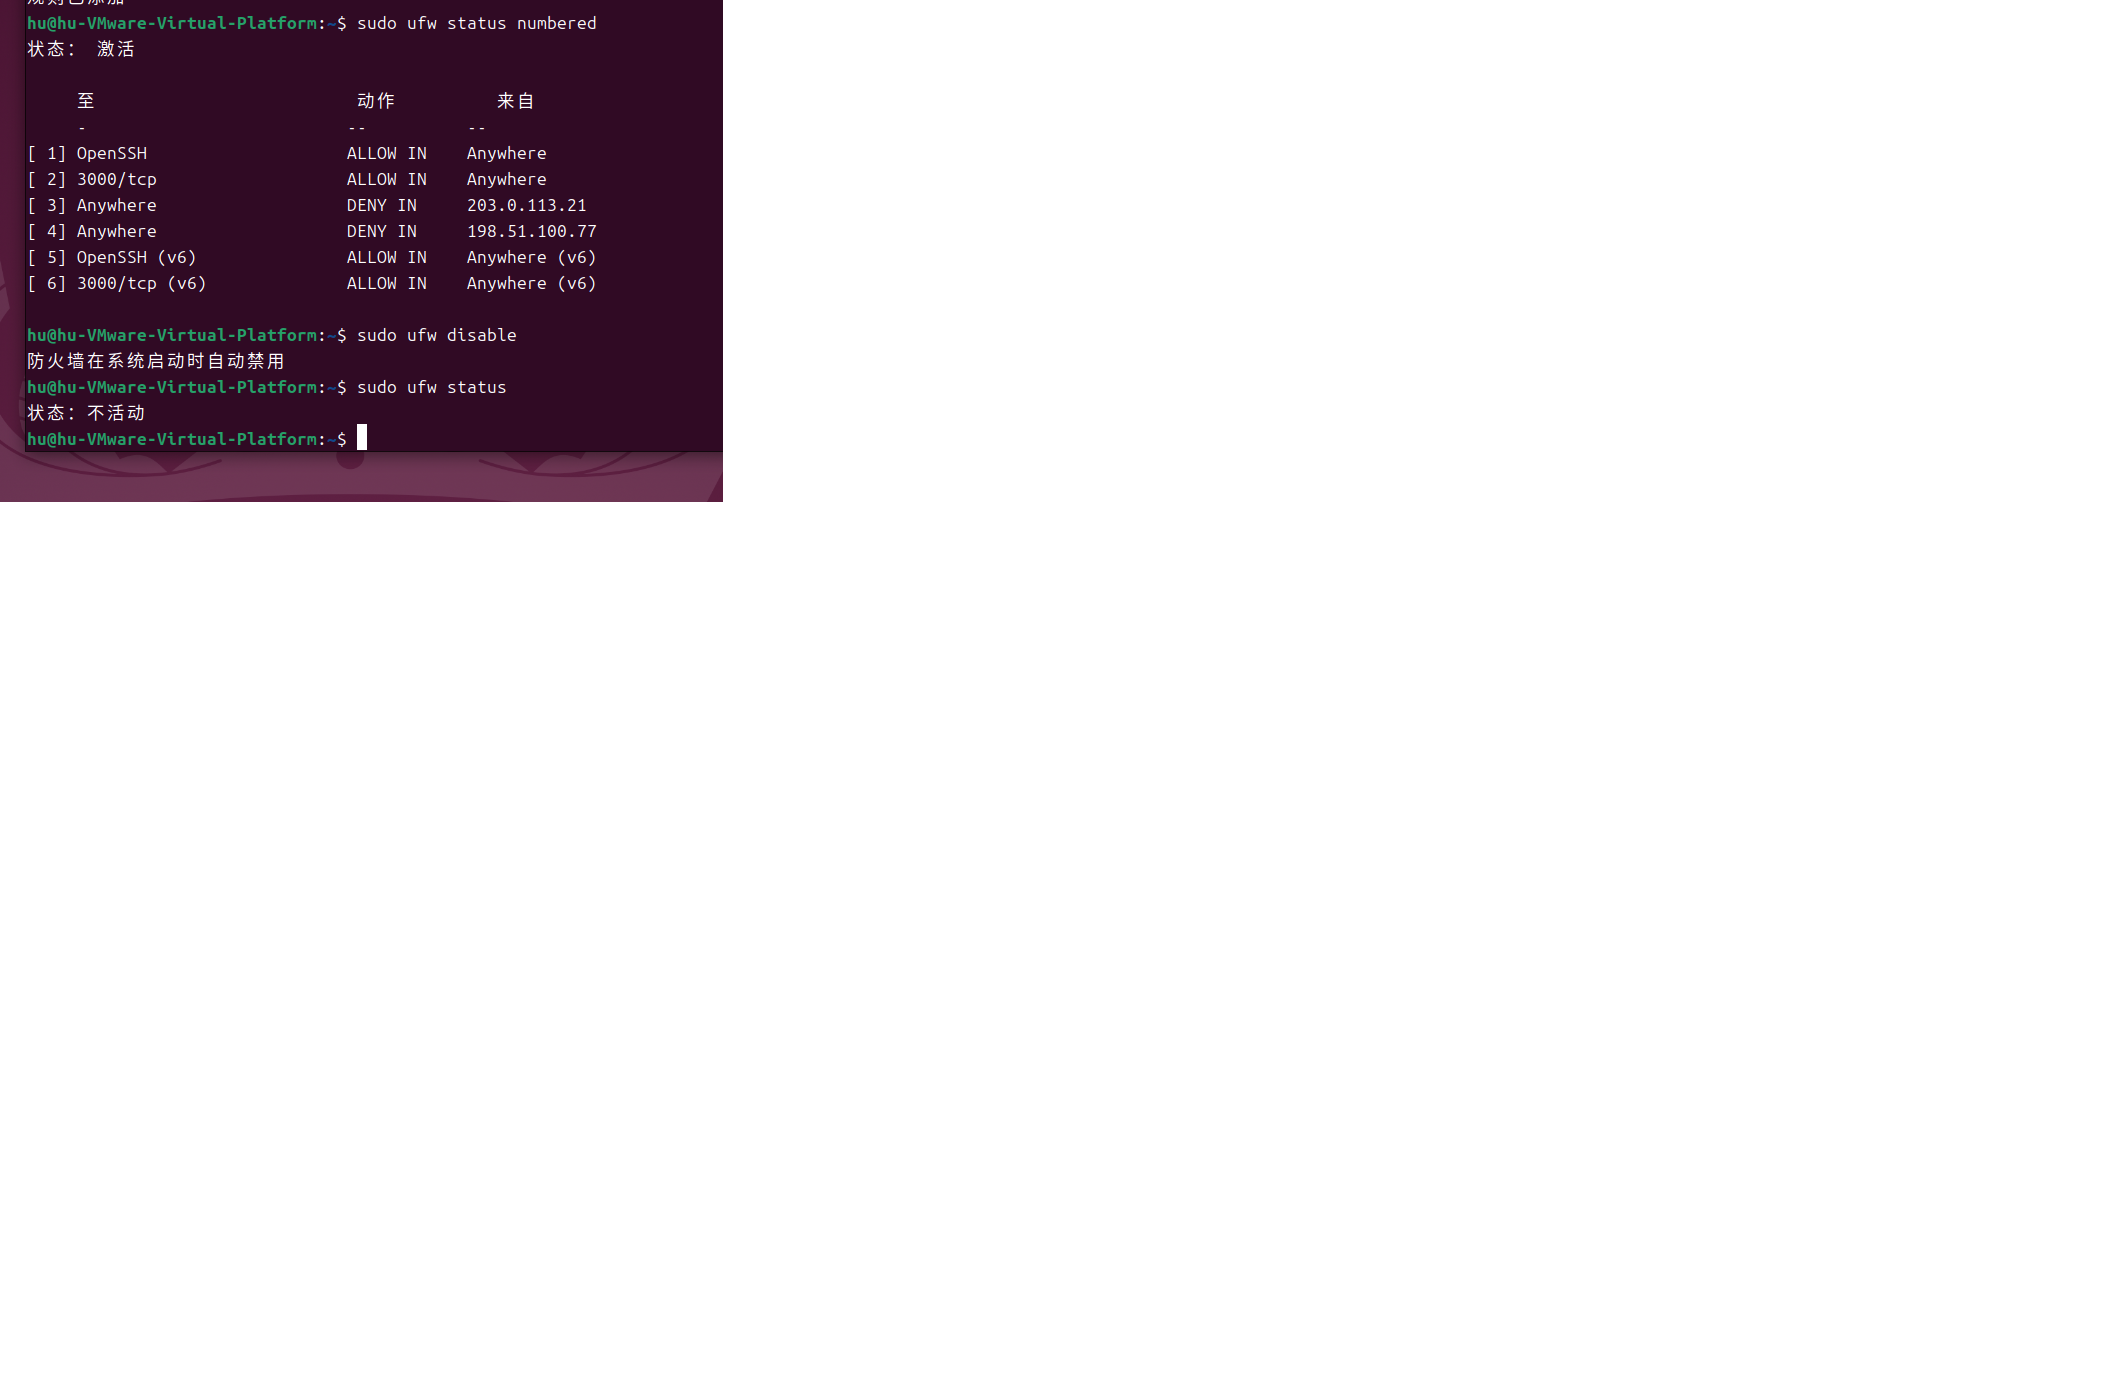
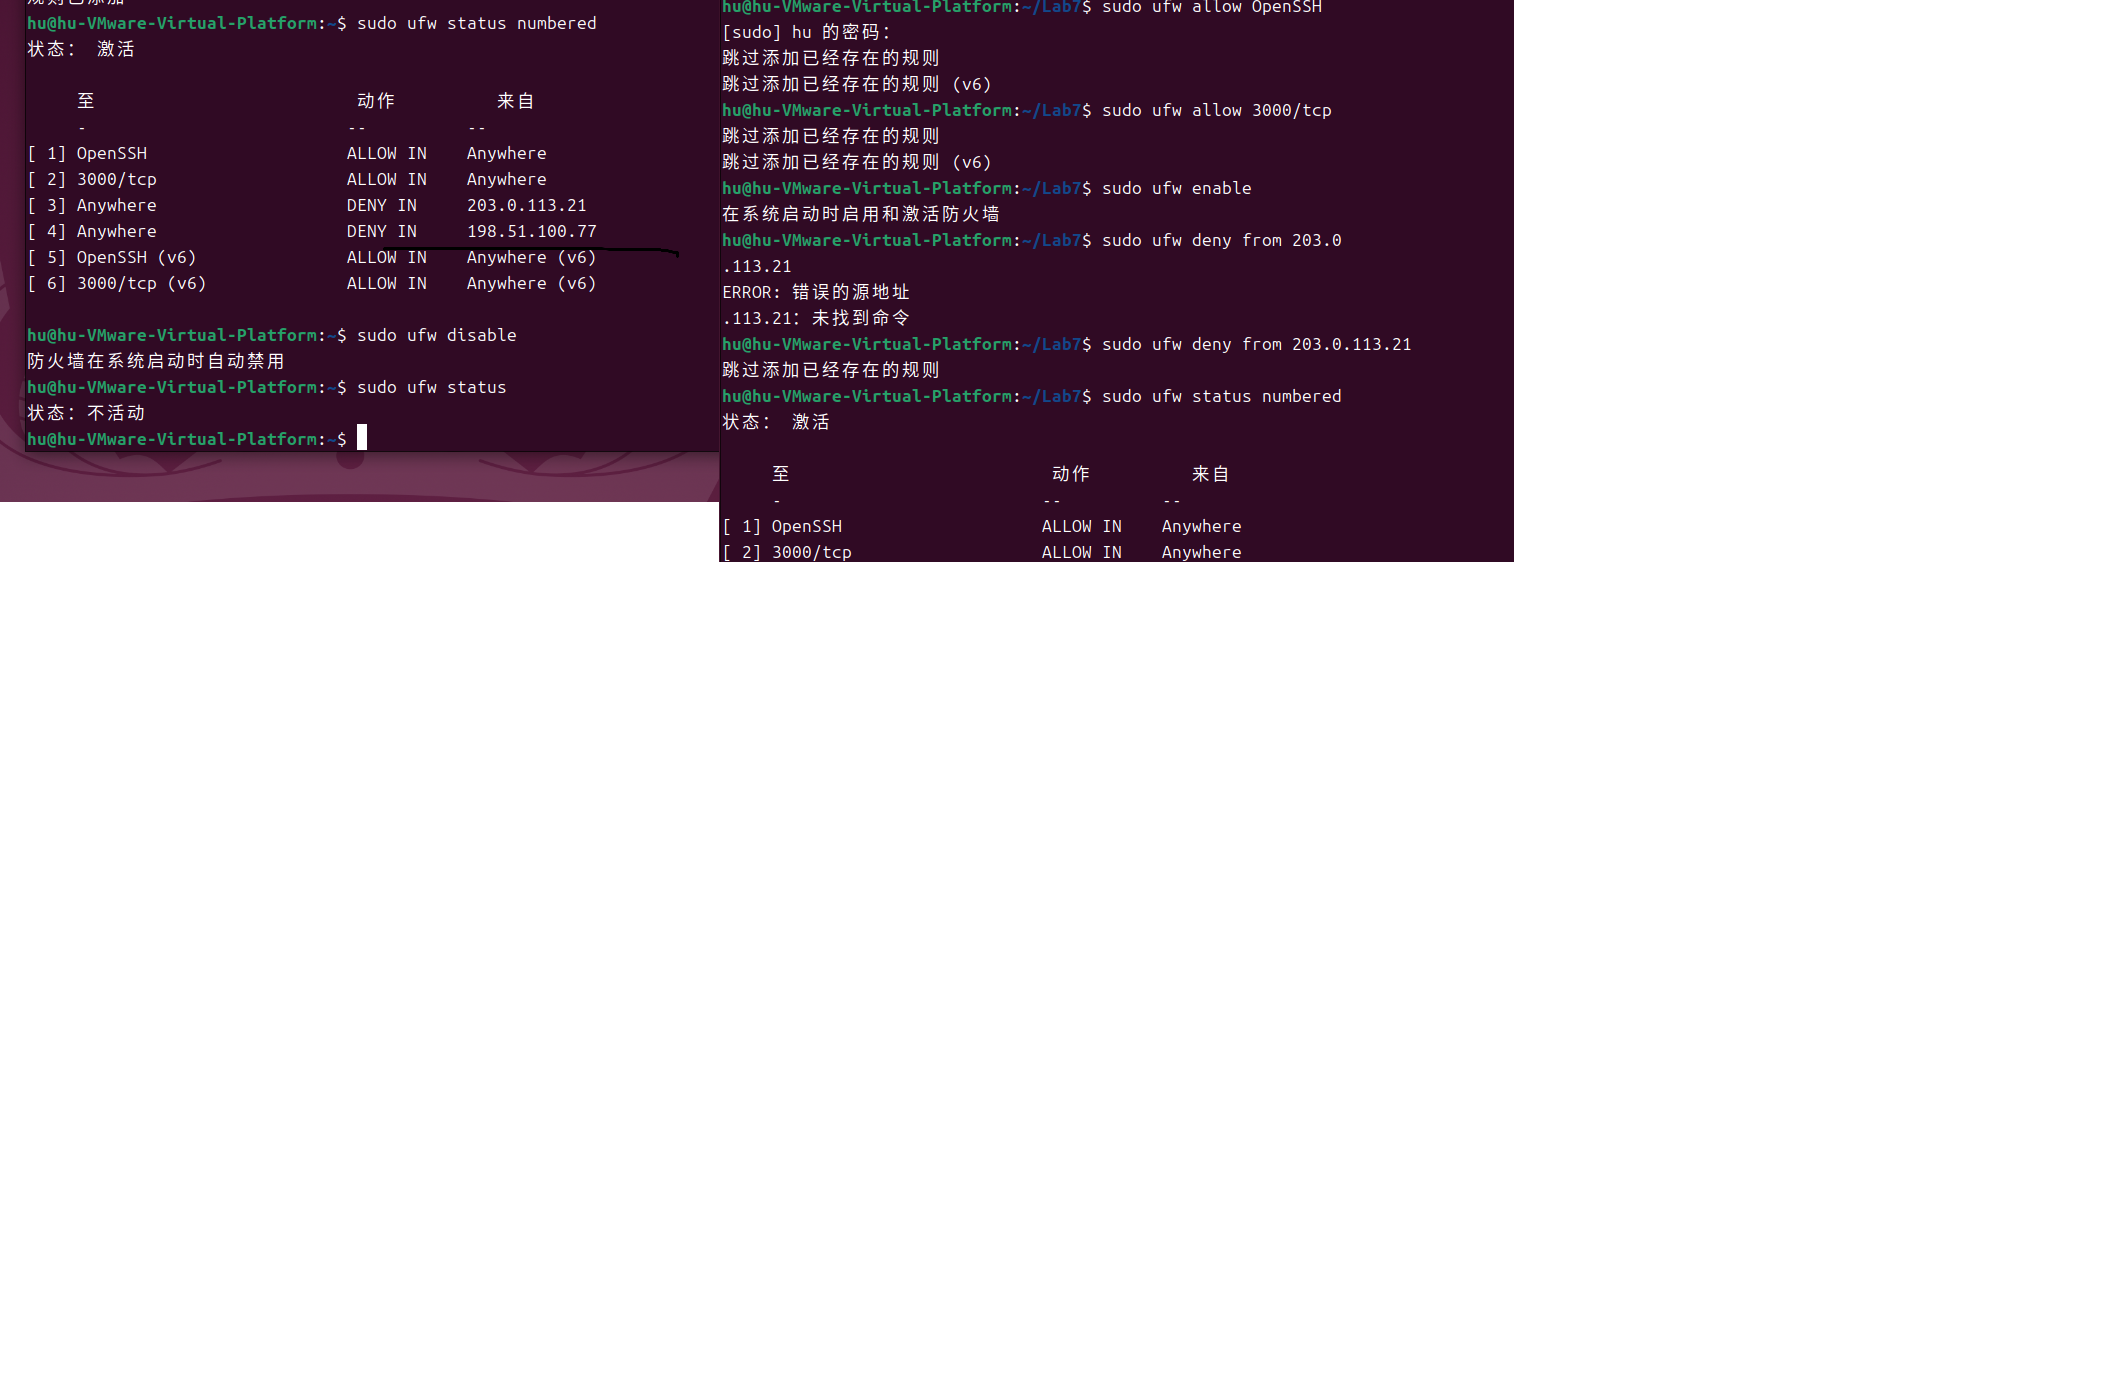
Lab7作业提交

Changed region(s): [[0.3402, 0.0, 0.7422, 0.4276]]

diff --git a/2024010024邹大斌/Lab7/Lab7.md b/2024010024邹大斌/Lab7/Lab7.md
@@ -353,10 +353,7 @@ sum by (user) (
 >
 > ② 哪一类用户名更值得关注？依据是什么？
 >
-> 答：不带 invalid user、系统真实存在的账号（hu、root）更值得关注。
-依据：
-invalid user 代表攻击者在批量猜不存在的账号，属于大范围字典扫描；
-而针对真实存在账号的登录失败记录，说明攻击者已经命中了系统内有效账号，一旦密码被爆破成功，就能直接登录系统，风险更高。
+> 答：真实存在的账号（hu、root）更值得关注。invalid user 仅为账号扫描探测；命中有效账号的爆破记录意味着攻击者已经锁定目标账号，一旦密码被破解，即可成功登录，风险更高。
 
 保存 `imgs/lab7-users.png`，保留用户名分组查询的结果与分类表。
 
@@ -441,9 +438,9 @@ ssh 你的用户名@虚拟机IP
 > ① 成功登录三问的回答分别是什么？（源 IP 对比、账号关联、地址段属性）
 >
 > 答：
-1. 源 IP 对比：成功登录源 IP 203.0.113.21，和爆破失败记录的源 IP 相同；
-2. 账号关联：账号 hu 在此之前存在密集爆破尝试记录，成功登录时间紧跟爆破失败的密集时段；
-3. 地址段属性：203.0.113.21 为本实验宿主机管理 IP，属于实验环境可信管理来源，不属于恶意外部攻击网段。
+1. 源 IP 对比：成功登录源 IP 203.0.113.21，与爆破失败源 IP 一致；
+2. 账号关联：账号 hu 此前存在密集爆破尝试，成功登录紧跟爆破密集时段；
+3. 地址段属性：该地址属于实验文档保留段，是宿主机管理可信来源，不属于外部攻击者网段；综合判定为管理员合法登录，并非爆破得手。
 >
 > ② 你的最终结论是三选一中的哪个？依据链是什么？
 >
@@ -503,7 +500,7 @@ sudo ufw status
 >
 > ① 你的封禁建议四要素分别是什么？
 >
-> 答：封禁四要素：源 IP、动作、协议 / 端口、封禁理由。源 IP：`198.51.100.77`；动作：DENY；端口：22/tcp（SSH）；理由：该 IP 持续发起 SSH 账号密码爆破，产生大量失败登录日志，属于恶意扫描爆破流量；`203.0.113.21` 为本实验宿主机管理 IP，属于可信来源，不做封禁。
+> 答：源 IP：198.51.100.77；动作：DENY；协议端口：22/tcp（SSH）；理由：该 IP 产生多条 SSH 密码爆破失败记录，属于恶意扫描爆破流量；203.0.113.21为宿主机管理可信 IP，不予封禁。
 >
 > ② `ufw status numbered` 中看到了哪些规则？演练后是否已执行 `ufw disable` 恢复基线？
 >
@@ -544,12 +541,12 @@ sudo ufw status
 | 失败次数统计方法 |在 Loki 中使用 LogQL 筛选 SSH 登录失败日志，按来源 IP 分组统计失败条数 |
 | 账号锁定防线是否启用 |未启用，pam_faillock 模块未配置，faillock 查询无记录 |
 | 是否有成功登录 |是 |
-| 成功登录来源与判断 |来源：203.0.113.21；判断：日志存在该 IP 对应Accepted passwordSSH 成功登录记录 |
-| 关键 LogQL |`{job="syslog"} |
+| 成功登录来源与判断 |来源：203.0.113.21；判断：该 IP 为实验环境宿主机可信管理源，Accepted password属于管理员合法登录，不是爆破入侵成功|
+| 关键 LogQL |{job="auth"} |
 | 证据截图 | sshd 失败日志截图、sshd 成功登录日志截图、faillock 查询截图、ufw 规则截图|
-| 修复动作 |1. 使用 ufw 封禁攻击 IP：deny from 203.0.113.21、deny from 198.51.100.77；2. 启用 pam_faillock 账号锁定策略；3. 设置高强度密码；4. 可配置 fail2ban 自动检测封禁；演练后执行 ufw disable 恢复基线 |
-| 成功登录三问的回答（第七节） |1. 谁：来源 IP 203.0.113.21；2. 何时：日志记录的成功登录时间；3. 是否异常：异常，该 IP 前期大量 SSH 爆破失败，属于暴力破解成功|
-| 封禁建议四要素（第八节） |源 IP：203.0.113.21、198.51.100.77；动作：DENY；协议端口：全部；理由：对 SSH 服务实施密码爆破，203.0.113.21 爆破成功 |
+| 修复动作 |1. 使用 ufw 封禁恶意爆破 IP 198.51.100.77，可信管理 IP 203.0.113.21不做封禁；2. 启用 pam_faillock 账号锁定策略；3. 设置高强度账号密码；4. 可部署 fail2ban 实现自动检测封禁；演练结束执行ufw disable恢复防火墙基线 |
+| 成功登录三问的回答（第七节） |1. 源 IP 对比：成功登录源 IP 203.0.113.21，与爆破失败源 IP 一致；2. 账号关联：账号 hu 此前存在密集爆破尝试，成功登录紧跟爆破密集时段；3. 地址段属性：该地址属于实验文档保留段，是宿主机管理可信来源，不属于外部攻击者网段；综合判定为管理员合法登录，并非爆破得手。|
+| 封禁建议四要素（第八节） |源 IP：198.51.100.77；动作：DENY；协议端口：22/tcp（SSH）；理由：该 IP 产生多条 SSH 密码爆破失败记录，属于恶意扫描爆破流量；203.0.113.21为宿主机管理可信 IP，不予封禁。 |
 
 ---
 
